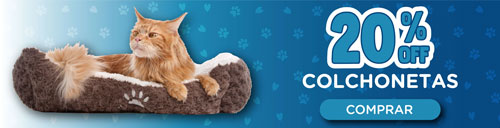
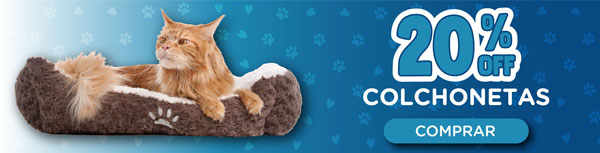
Imágenes actualziadas

diff --git a/styles/index.css b/styles/index.css
@@ -77,8 +77,8 @@ header {
 
 .promo,
 .link {
-  max-width: 500px;
-  height: 128px;
+  max-width: 600px;
+  height: 153px;
   background-repeat: no-repeat;
   background-size: contain;
   background-position: center;
